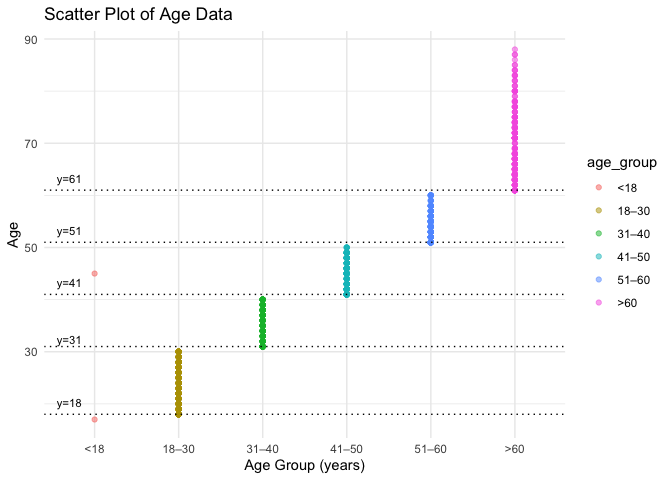
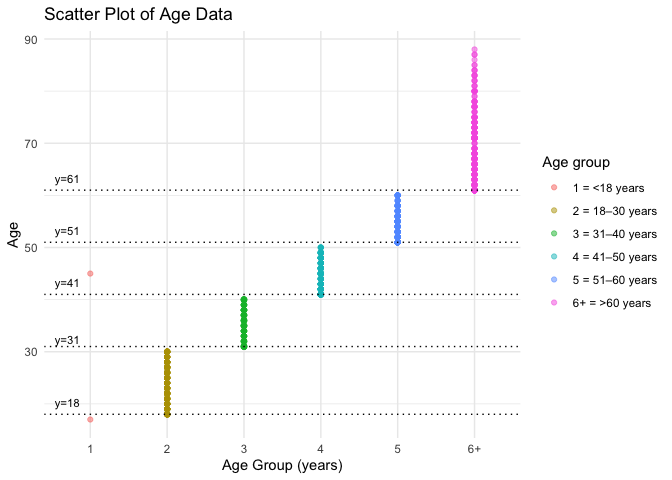
Write introduction, rephrase and simplify the comments

diff --git a/p8105_mtp_yc4018.md b/p8105_mtp_yc4018.md
@@ -5,7 +5,11 @@ Yuxuan Chen
 
 ## Introduction
 
-## Problem 1 – Data.
+In this project, the author correction data was used to re-analysis the
+relationship of how FHP size, age, and sex affect EOP size and
+re-conduct the hypothesis of whether cell phones are causing horn
+growth. By doing this to test the consistency and quality of the results
+in the original report.
 
 ``` r
 library(tidyverse)
@@ -24,10 +28,11 @@ scale_colour_discrete = scale_colour_viridis_d
 scale_fill_discrete = scale_fill_viridis_d
 ```
 
-1.  load, clean, and tidy the mtp\_df data
+## Problem 1 – Data.
 
 ``` r
-# Based on the article, the ages were divided into age groups of 18–30, 31–40, 41–50, 51–60, and >61.
+# load, clean, and tidy mtp_df data
+## Based on the article, the ages were divided into age groups of 18–30, 31–40, 41–50, 51–60, and >61.
 
 mtp_df = readxl::read_excel("./data/p8105_mtp_data.xlsx", range = "A9:I1230") %>%  #read the table without header info
   janitor::clean_names() %>% 
@@ -61,23 +66,6 @@ knitr::kable(mtp_df[0:10,])
 | male   |  21 | 2          |           9.4 | 1                | 2                               |          2 |          27.8 | 2          |
 | female |  25 | 2          |           0.0 | 0                | 0                               |         NA |          26.2 | 2          |
 | male   |  30 | 2          |          16.5 | 3                | 2                               |          2 |          21.0 | 2          |
-
--   After loading the dataset, I cleaned up the variable names and
-    converted them to lower snake cases. Based on header information, I
-    changed the observations of `1` and `0` to `male` and `female`
-    respectively, and replaced NA with 0 in `eop_size_mm` variable. Next
-    I changed the observations in `age` variable to be integer and
-    combined the ages older than 60 as the group of `6+`. I renamed the
-    `eop_size` to `eop_size_group`, `fhp_category` to `fhp_group` for
-    naming consistency. Lastly, I ordered the factors for
-    `age_group`,`eop_size_group`,`eop_visibility_classification`, and
-    `fhp_group` variables.
-
--   The size of the resulting dataset is (1221, 9), which contains 1221
-    observations of 9 variables. The key variables are `age_group`,
-    `eop_size_group`, `eop_visibility_classification`, and `fhp_group`,
-    because all these variables categorized data into different groups
-    based on different criteria.
 
 ``` r
 n_ptcp = mtp_df %>% count()
@@ -122,17 +110,26 @@ age_sex_df %>%
 
 ![](p8105_mtp_yc4018_files/figure-gfm/unnamed-chunk-3-1.png)<!-- -->
 
--   There are 1221 participants included. Male and female have the
-    similar distributions of number of observations in each age group.
+1.  After loading the dataset, I cleaned up the variable names and
+    converted them to lower snake cases. Based on header information, I
+    changed the observations of `1` and `0` to `male` and `female`
+    respectively and replaced NA with 0 in `eop_size_mm`. Next, I
+    changed the observations in `age` to integer and combined the ages
+    older than 60 as the group of `6+`. I renamed the `eop_size` to
+    `eop_size_group`, `fhp_category` to `fhp_group` for naming
+    consistency. Lastly, I ordered the factors of
+    `age_group`,`eop_size_group`,`eop_visibility_classification`, and
+    `fhp_group` variables.  
+
+-   The size of the resulting dataset is (1221, 9), which contains 1221
+    observations of 9 variables. The key variables are `age_group`,
+    `eop_size_group`, `eop_visibility_classification`, and `fhp_group`,
+    because all these variables categorized data into different groups
+    based on different criteria.
+-   There are 1221 participants included. Male and female have similar
+    distributions of the number of observations in each age group.
 
 2.  Issues in the data:
-
-``` r
-y = as.integer(c(18, 31, 41, 51, 61))
-class(mtp_df$age)
-```
-
-    ## [1] "integer"
 
 ``` r
 # age:
@@ -144,10 +141,9 @@ mtp_df %>%
     title = "Scatter Plot of Age Data",
     x = "Age Group (years)",
     y = "Age") +
-  scale_x_discrete(
-    labels = c("<18", "18–30", "31–40", "41–50", "51–60", ">60")) +
   scale_color_hue(
-    labels = c("<18", "18–30", "31–40", "41–50", "51–60", ">60")) +
+    name = "Age group",
+    labels = c("1 = <18 years", "2 = 18–30 years", "3 = 31–40 years", "4 = 41–50 years", "5 = 51–60 years", "6+ = >60 years")) +
   annotate("text", x = 0.7, y = 18, label = "y=18", vjust = -1, size = 3) +
   annotate("text", x = 0.7, y = 30, label = "y=31", vjust = -1, size = 3) +
   annotate("text", x = 0.7, y = 41, label = "y=41", vjust = -1, size = 3) +
@@ -169,8 +165,8 @@ mtp_df %>%
 |  17 | 1          |
 |  45 | 1          |
 
--   There are 2 data placed in the &lt;18 age group, especially one with
-    45 age is mistakenly placed in this age group.
+-   There are 2 data placed in the &lt;18 age group. One data with 45
+    age is misclassified into this age group.
 
 ``` r
 #EOP sizes group
@@ -179,7 +175,7 @@ mtp_df %>%
   geom_point(alpha = .5) +
   geom_hline(yintercept = c(5, 10, 15, 20, 25), linetype = 3) +
   labs(
-    title = "Scatter Plot of EOP Sizes in EOP Sizes Groups",
+    title = "Scatter Plot of EOP Sizes in EOP Size Groups",
     x = "EOP Size Group",
     y = "EOP Size (mm)") +
   scale_color_hue(
@@ -192,17 +188,17 @@ mtp_df %>%
 ``` r
 mtp_df %>% 
   filter(!eop_size_group %in% c("0","1","2","3","4","5")) %>% 
-  select(eop_size_group, eop_size_mm) %>% 
+  select(eop_size_mm, eop_size_group) %>% 
   knitr::kable()
 ```
 
-| eop\_size\_group | eop\_size\_mm |
-|:-----------------|--------------:|
-| 14.6             |            15 |
+| eop\_size\_mm | eop\_size\_group |
+|--------------:|:-----------------|
+|            15 | 14.6             |
 
--   There is one data with 15mm EOP size was mistakenly placed in 14.6
-    size group. Also there are many misclassified data in size groups of
-    1, 3, 4, 5.
+-   There is one data with 15mm EOP size is misclassified into in 14.6
+    size group. Also, there are many misclassified data in 1, 3, 4, 5
+    size groups.
 
 ``` r
 #eop_visibility_classification
@@ -251,9 +247,9 @@ mtp_df %>%
 |:-----------|--------------:|
 | 30.8       |          30.3 |
 
--   There is one data with 30.3mm FHP size was mistakenly placed in 30.8
-    size group. Also there are many misclassified data in size groups 1,
-    2, and 4.
+-   There is one data with 30.3mm FHP size is misclassified into 30.8
+    size group. Also, there are many misclassified data in size groups
+    1, 2, and 4.
 
 ## Problem 2 – Visualization.
 
@@ -297,18 +293,17 @@ FHP_plot / eeop_plot
 ![](p8105_mtp_yc4018_files/figure-gfm/unnamed-chunk-8-1.png)<!-- -->
 
 -   Improved fig.3 shows the distribution of FHP data across the age
-    groups and sexes. In the 60+ age group, both male and female have
-    the highest FHP size. Male has higher FHP sizes than female within
-    all age groups since the median of FHP sizes of male are higher.
-    Both mean and sd are close to median in each age and sex group.
-
-.  
-- Bottom plot shows the distribution of rate of EEOP in each age and sex
-group. The trends of distribution in improved fig.4 are similar to the
-original plot. Male has higher EEOP rate than female. 18-30 years group
-has the highest EEOP rate. With age increases, EEOP rate decreases and
-EEOP becomes unlikely to occur. After the age of 40s, EEOP rate slightly
-increases
+    groups and sexes. With increasing age, FHP size also increases. In
+    the 60+ age group, both male and female have the highest FHP sizes.
+    Male has higher FHP sizes than female within all age groups since
+    the median of FHP sizes of the male is higher. Both mean and sd are
+    close to the median in each age and sex group.  
+-   Bottom plot shows the distribution of the rate of EEOP in each age
+    and sex group. The trends of distribution in improved fig.4 are
+    similar to the original plot. Male has a higher EEOP rate than
+    female. The 18-30 years group has the highest EEOP rate. With age
+    increases, the EEOP rate decreases, and EEOP becomes unlikely to
+    occur. After the age of 40s, the EEOP rate increases again.
 
 ``` r
 mtp_df %>%
@@ -329,8 +324,9 @@ mtp_df %>%
 
 ![](p8105_mtp_yc4018_files/figure-gfm/unnamed-chunk-9-1.png)<!-- -->
 
-In both sex groups, EOP size and FHP size have positive relationship in
-every age group.
+-   In both sex groups, FHP size and EOP size have a positive
+    relationship in every age group. In each age and sex group, with
+    increasing of FHP Size will result increasing of EOP Size.
 
 ## Problem 3 – Reproducing reported results.
 
@@ -353,12 +349,13 @@ mtp_df %>%
 | 51–60     |         200 |
 | &gt;60    |         305 |
 
-1.  No. The authors’ stated sample size was: 18–30: n = 300, 31–40: n =
-    200, 41–50: n = 200, 51–60: n = 200, and &gt;60: n = 300, which is
-    different with the data I have.
+1.  No, since the authors’ stated sample sizes are: 18–30: n = 300,
+    31–40: n = 200, 41–50: n = 200, 51–60: n = 200, and &gt;60: n = 300,
+    which are different with the data in the calculated table above.
 
 ``` r
-mean(pull(mtp_df, fhp_size_mm), na.rm = TRUE) 
+# overall mean FHP
+mean(pull(mtp_df, fhp_size_mm), na.rm = TRUE)
 ```
 
     ## [1] 26.10134
@@ -378,19 +375,20 @@ mtp_df %>%
 | female | 23.72580 | 10.61789 |
 | male   | 28.51234 | 14.66670 |
 
-2.  The reported overall mean FHP was 26 ±mm, for male was 28±15mm, and
-    for female was 24±11mm, which are consistent with the data I have
-    available.
+2.  Yes, since the authors stated overall mean FHP was 26 ±mm, the
+    male’s mean FHP was 28±15mm and the female’s mean FHP was 24±11mm,
+    which is consistent with the data in the calculated table above.
 
 ``` r
+# Because of misclassification, I used `eop_size_mm` to distinguish the size of 10mm. 
 mtp_df %>% 
   filter(
     age_group != 1,
     eop_size_group %in% c("0", "1", "2", "3", "4", "5")) %>% 
   mutate(
     eeop = case_when(
-      eop_size_group %in% c("0", "1") ~ "no",
-      eop_size_group %in% c("2", "3", "4", "5") ~ "yes",
+      eop_size_mm <= 10 ~ "no",
+      eop_size_mm > 10 ~ "yes",
       TRUE   ~ "")) %>% 
   group_by(eeop) %>% 
   summarize(n_obs = n()) %>% 
@@ -400,22 +398,25 @@ mtp_df %>%
 
 | eeop | n\_obs |      rate |
 |:-----|-------:|----------:|
-| no   |    825 | 0.6773399 |
-| yes  |    393 | 0.3226601 |
+| no   |    827 | 0.6789819 |
+| yes  |    391 | 0.3210181 |
 
-3.  EEOP is when the bony outgrowth exceeds 10mm and can be evaluated by
-    `eop_size_mm` or `eop_size_group`. The calculated prevalence of EEOP
-    equals 32% which is smaller than authors’ finding.
+3.  EEOP is named when the size of bony outgrowth exceeds 10mm, which
+    can be evaluated by `eop_size_mm` and `eop_size_group`. The
+    calculated prevalence of EEOP equals 32% which is smaller than the
+    authors’ finding.
 
 ``` r
-mtp_df %>% 
+trend_df = 
+  mtp_df %>% 
   filter(age_group != 1) %>% 
   group_by(age_group) %>% 
   count(fhp_group) %>% 
   mutate(rate = prop.table(n)) %>% 
   filter(fhp_group %in% c('4', '5', '6', '7')) %>% 
-  summarize(sum = sum(rate)) %>% 
-  knitr::kable(col.names = c("Age Group", "Frequency of FHP >40 mm"))
+  summarize(sum = sum(rate))
+
+knitr::kable(trend_df, col.names = c("Age Group", "Frequency of FHP >40 mm"))
 ```
 
 | Age Group | Frequency of FHP &gt;40 mm |
@@ -426,23 +427,35 @@ mtp_df %>%
 | 5         |                  0.1100000 |
 | 6+        |                  0.3245902 |
 
+``` r
+trend_df %>% 
+  ggplot(aes(x = age_group, y = sum, group = NA)) +
+  geom_point() +
+  geom_line() +
+  labs(
+    title = "Distribution of Frequency of FHP > 40mm",
+    x = "Age Group (years",
+    y = "Frequency of FHP > 40mm")
+```
+
+![](p8105_mtp_yc4018_files/figure-gfm/unnamed-chunk-13-1.png)<!-- -->
+
 4.  The broad trend is consistent with my data, but my frequency of
-    FHP&gt;40mm in 60+ age group is 32.5%, which is smaller than the
-    finding by author.
+    FHP&gt;40mm in the 60+ age group is 32.5%, which is smaller than the
+    finding by the authors.
 
 ## Problem 4 – Discussion.
 
--   From my calculation, increasing in age resulted increasing in FHP
-    size, which is positively related to EOP size. Hence, the high EEOP
-    rate in 18-30 years group do recommends a potential avenue for
-    prevention intervention through posture improvement education in
-    this cohort. However, there are many mistakes in data and many
-    misclassified data in original report, which makes the quality of
-    the results doubtful. Some calculated values, like prevalence of
-    EEOP, are also different with authors’ findings. Even though the
-    broad trends of the original report’s conclusions are consistent
-    with mine, we cannot conclude that cell phones are causing horn
-    growth since poor posture may not directly cause EEOP formation, and
-    there may be other poor postures but not just using cell phones.
-    Hence, prevalence of top poor postures and time of cell phone usage
-    among different age groups may be helpful to address the hypothesis.
+-   In summary, increasing in age will result increasing in FHP size
+    which is positively related to EOP size. The high EEOP rate in the
+    18-30 years group does recommend a potential avenue for prevention
+    intervention through posture improvement education. However, there
+    are many mistakes in data and many misclassified data in the
+    original report, which makes the quality of the results doubtful.
+    Some calculated values are also different from the authors’
+    findings. Even the broad trends from the original report are
+    consistent with mine, we cannot conclude that cell phones causes
+    horn growth since poor postures may not directly cause EEOP
+    formation, and there may exist other poor postures. Hence, the
+    prevalence of top poor postures and time of cell phone usage among
+    different age groups may be helpful to address the hypothesis.
